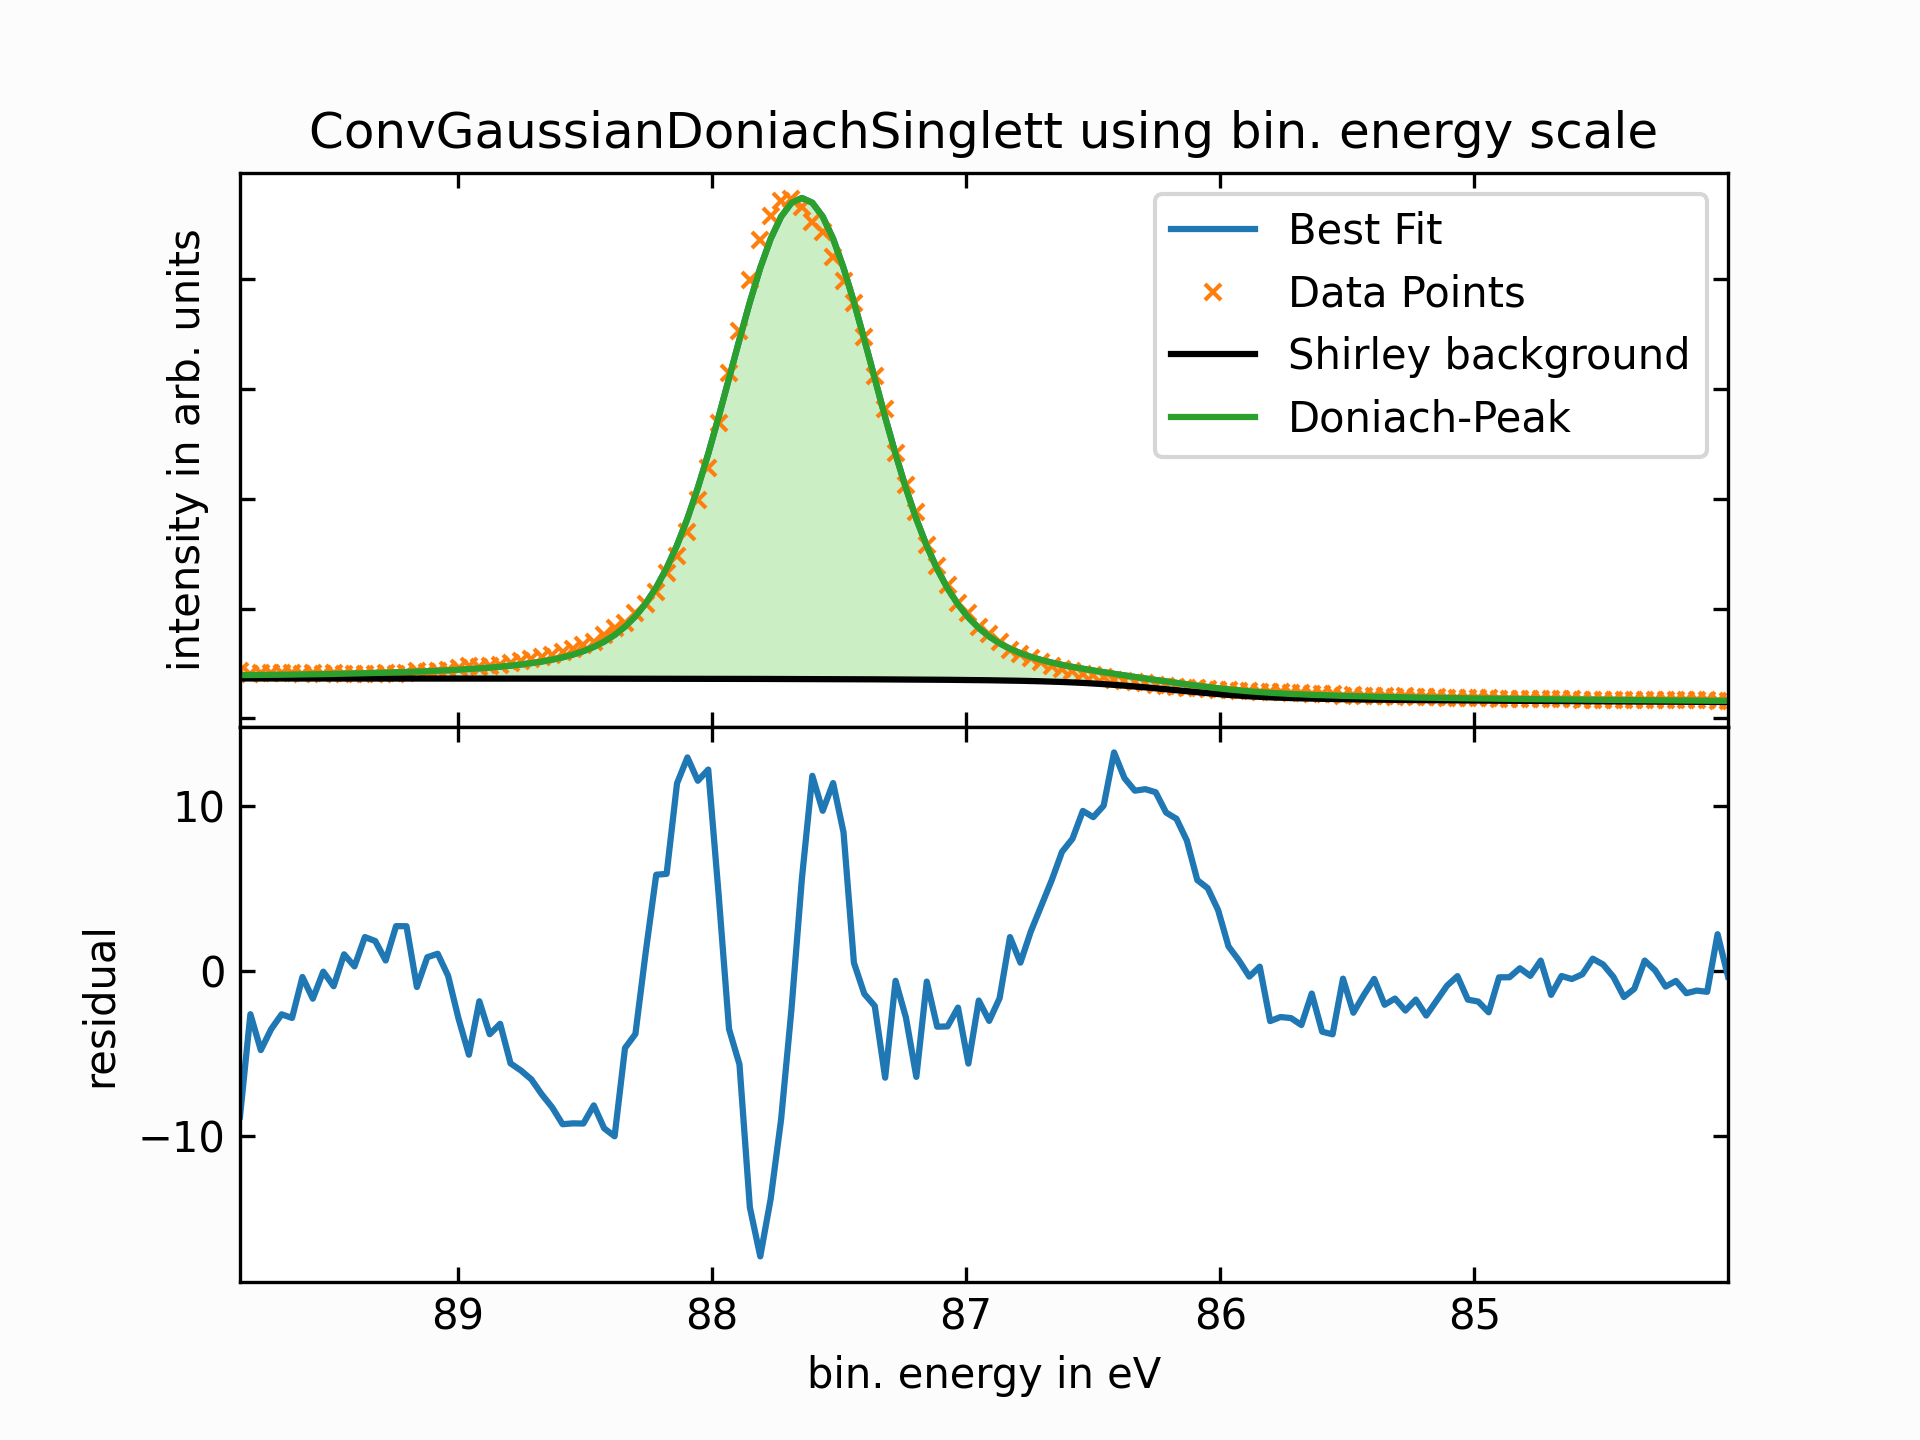
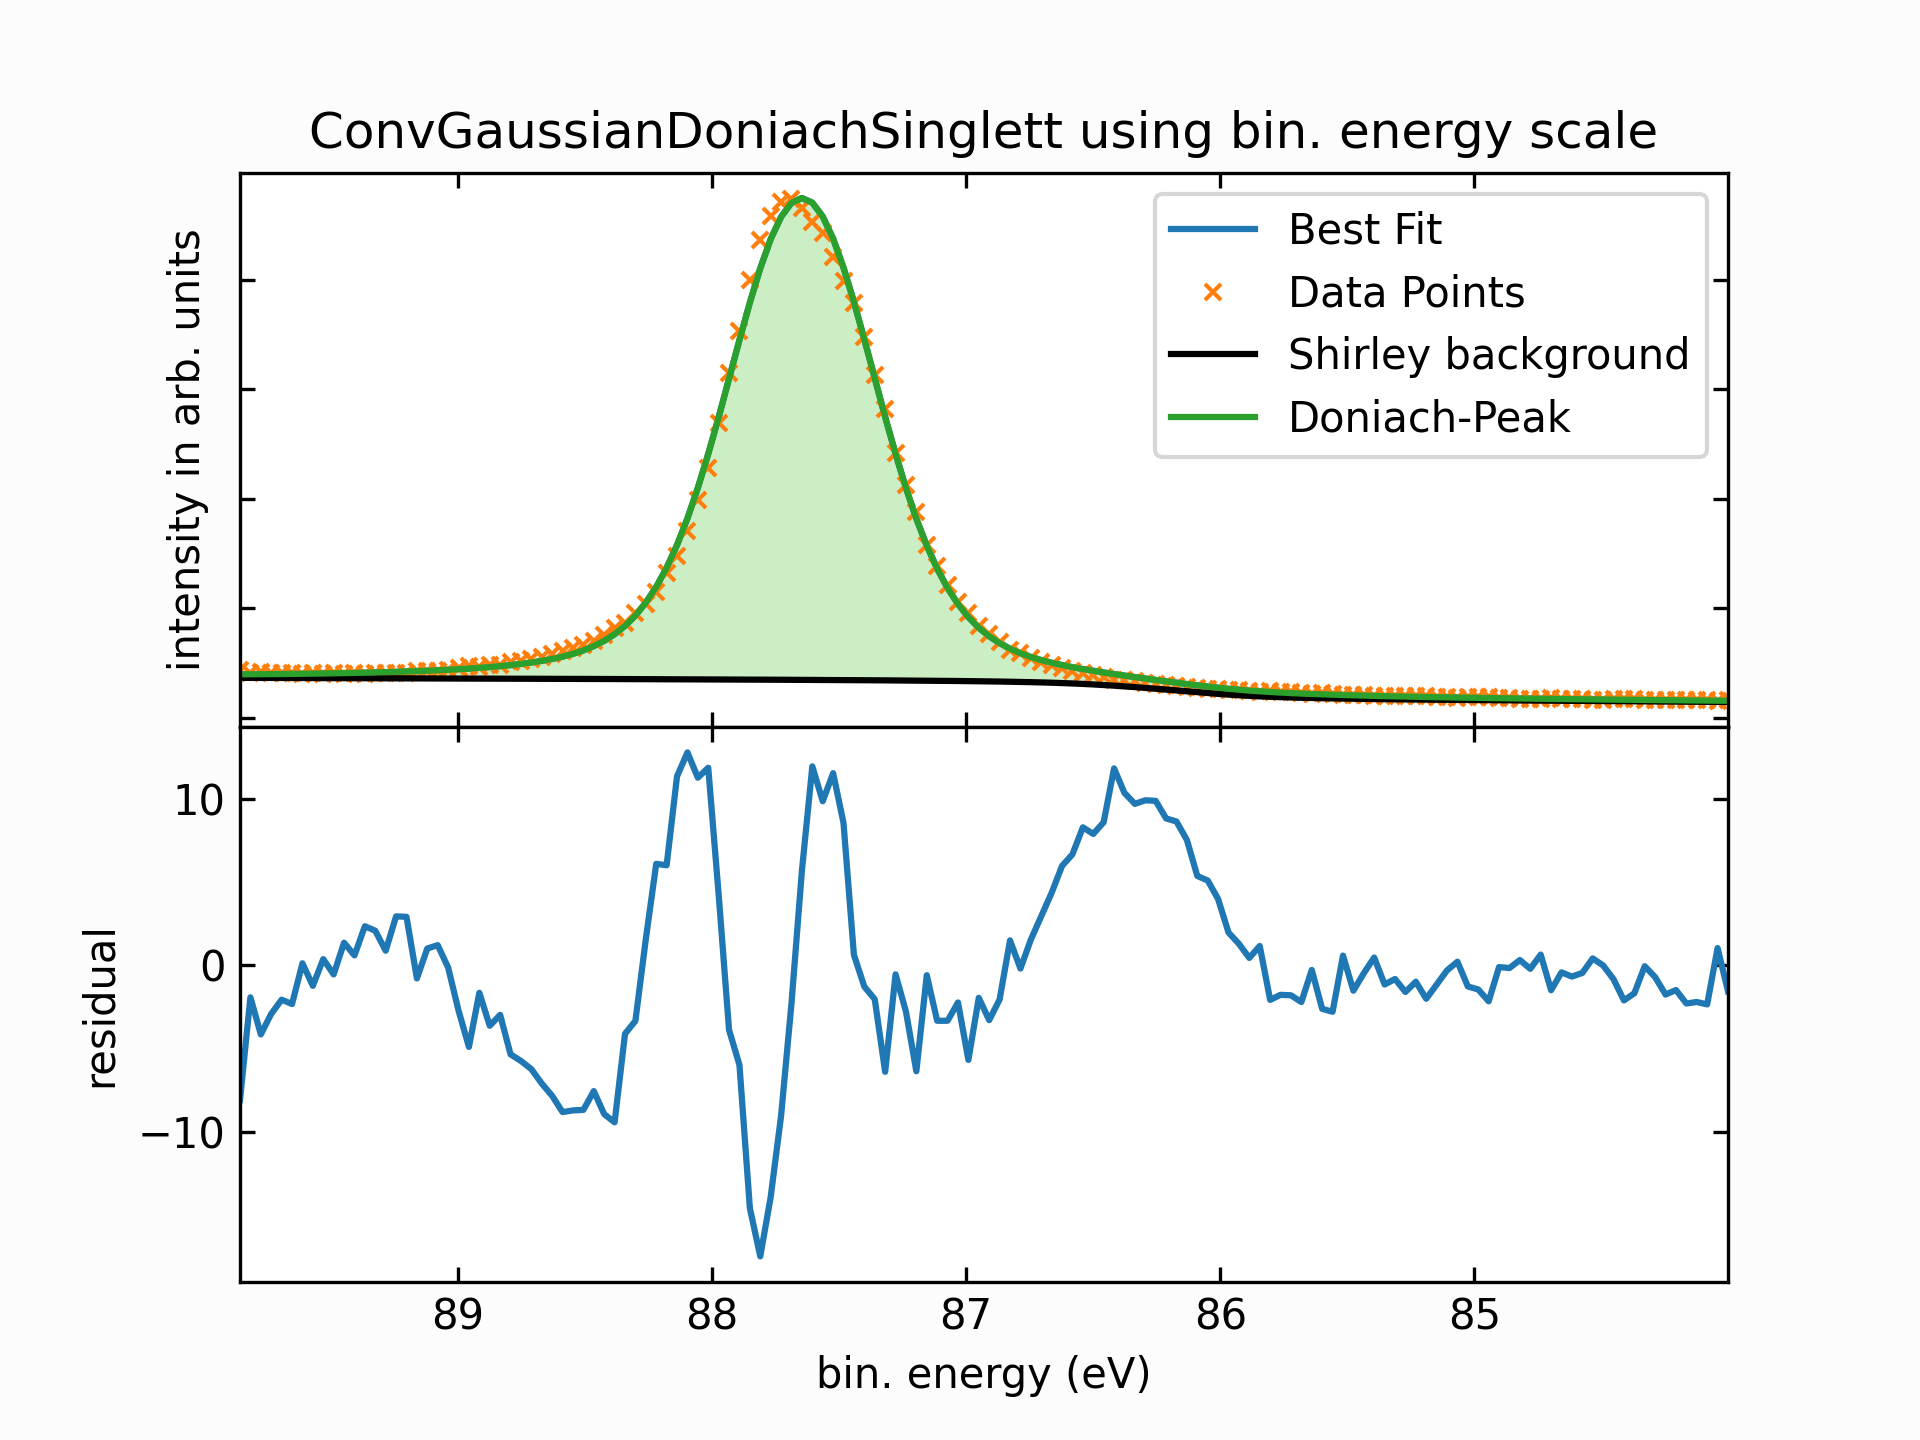
modified fft_convolve to handle the use binding energy there instead of modifying each model function.

diff --git a/src/lmfitxps/lineshapes.py b/src/lmfitxps/lineshapes.py
@@ -43,21 +43,13 @@ def dublett(x, amplitude, sigma, gamma, gaussian_sigma, center, soc, height_rati
     array-type
         convolution of a doniach dublett and a gaussian profile
     """
-    if x[0] < x[-1]:
-        conv_temp = fft_convolve(
+    is_binding_energy= x[-1] < x[0]
+    conv_temp = fft_convolve(
             doniach(x, amplitude=1, center=center, sigma=sigma, gamma=gamma) + doniach(x, height_ratio, center - soc,
                                                                                        fct_coster_kronig * sigma,
                                                                                        gamma),
             1 / (np.sqrt(2 * np.pi) * gaussian_sigma) * gaussian(x, amplitude=1, center=np.mean(x),
-                                                                 sigma=gaussian_sigma))
-    else:
-        conv_temp = fft_convolve(
-            doniach(x[::-1], amplitude=1, center=center, sigma=sigma, gamma=gamma) + doniach(x[::-1], height_ratio,
-                                                                                             center - soc,
-                                                                                             fct_coster_kronig * sigma,
-                                                                                             gamma),
-            1 / (np.sqrt(2 * np.pi) * gaussian_sigma) * gaussian(x[::-1], amplitude=1, center=np.mean(x),
-                                                                 sigma=gaussian_sigma))
+                                                                 sigma=gaussian_sigma), is_binding_energy=is_binding_energy)
     return amplitude * conv_temp / max(conv_temp)
 
 
@@ -87,14 +79,10 @@ def singlett(x, amplitude, sigma, gamma, gaussian_sigma, center):
     array-type
         convolution of a doniach profile and a gaussian profile
     """
-    if x[0] < x[-1]:
-        conv_temp = fft_convolve(doniach(x, amplitude=1, center=center, sigma=sigma, gamma=gamma),
+    is_binding_energy= x[-1] < x[0]
+    conv_temp = fft_convolve(doniach(x, amplitude=1, center=center, sigma=sigma, gamma=gamma),
                                  1 / (np.sqrt(2 * np.pi) * gaussian_sigma) * gaussian(x, amplitude=1, center=np.mean(x),
-                                                                                      sigma=gaussian_sigma))
-    else:
-        conv_temp = fft_convolve(doniach(x[::-1], amplitude=1, center=center, sigma=sigma, gamma=gamma),
-                                 1 / (np.sqrt(2 * np.pi) * gaussian_sigma) * gaussian(x[::-1], amplitude=1, center=np.mean(x),
-                                                                                      sigma=gaussian_sigma))
+                                                                                      sigma=gaussian_sigma), is_binding_energy=is_binding_energy)
     return amplitude * conv_temp / max(conv_temp)
 
 
@@ -128,14 +116,13 @@ def fermi_edge(x, amplitude, center, kt, sigma):
     array-type
         convolution of a fermi dirac distribution and a gaussian profile
     """
-    if x[0] < x[-1]:
-        conv_temp = fft_convolve(thermal_distribution(x, amplitude=1, center=center, kt=kt, form='fermi'),
+    is_binding_energy= x[-1] < x[0]
+
+    if is_binding_energy:
+        kt=-kt
+    conv_temp = fft_convolve(thermal_distribution(x, amplitude=1, center=center, kt=kt, form='fermi'),
                                  1 / (np.sqrt(2 * np.pi) * sigma) * gaussian(x, amplitude=1, center=np.mean(x),
-                                                                             sigma=sigma))
-    else:
-        conv_temp = fft_convolve(thermal_distribution(x, amplitude=1, center=center, kt=-kt, form='fermi'),
-                                 1 / (np.sqrt(2 * np.pi) * sigma) * gaussian(x, amplitude=1, center=np.mean(x),
-                                                                             sigma=sigma))
+                                                                             sigma=sigma), is_binding_energy=is_binding_energy)
     return amplitude * conv_temp / max(conv_temp)
 
 
@@ -170,7 +157,7 @@ def convolve(data, kernel):
     return (out[n_start_data:])[:min_num_pts]
 
 
-def fft_convolve(data, kernel):
+def fft_convolve(data, kernel, is_binding_energy=False):
     """
     Calculates the convolution of a data array with a kernel by using the convolution theorem and thereby
     transforming the time-consuming convolution operation into a multiplication of FFTs.
@@ -185,6 +172,8 @@ def fft_convolve(data, kernel):
         1D-array containing the data to convolve
     kernel: array-like
         1D-array which defines the kernel used for convolution
+    is_binding_energy: boolean
+        Boolean determining type of energy scale which determines the orientation of the kernel
 
     Returns
     ---------
@@ -195,6 +184,8 @@ def fft_convolve(data, kernel):
     ---------
     scipy.signal.convolve()
     """
+    if is_binding_energy:
+        kernel=kernel[::-1]
     min_num_pts = min(len(data), len(kernel))
     padding = np.ones(min_num_pts)
     padded_data = np.concatenate((padding * data[0], data, padding * data[-1]))

diff --git a/examples/Example_ConvGaussianDoniachSinglett.py b/examples/Example_ConvGaussianDoniachSinglett.py
@@ -42,7 +42,7 @@ ax1.plot(x, comps['singlett_'] + comps['shirley_'], color=cmap(4), label="Doniac
 
 ax1.fill_between(x, comps['singlett_'] + comps['shirley_'], comps['shirley_'], alpha=0.5,color=cmap(5))
 ax1.legend()
-ax1.set_xlabel('bin. energy in eV')
+ax1.set_xlabel('bin. energy (eV)')
 ax1.set_ylabel('intensity in arb. units')
 # Set ticks only inside
 ax1.tick_params(axis='x', which='both',top=True, direction='in')
@@ -99,7 +99,7 @@ ax21.plot(x, comps['singlett_'] + comps['shirley_'], color=cmap(4), label="Donia
 
 ax21.fill_between(x, comps['singlett_'] + comps['shirley_'], comps['shirley_'], alpha=0.5,color=cmap(5))
 ax21.legend()
-ax21.set_xlabel('bin. energy in eV')
+ax21.set_xlabel('bin. energy (eV)')
 ax21.set_ylabel('intensity in arb. units')
 # Set ticks only inside
 ax21.tick_params(axis='x', which='both',top=True, direction='in')
@@ -114,7 +114,7 @@ ax21.set_xlim(np.min(x), np.max(x))
 # Residual plot
 residual = result.residual
 ax22.plot(x, residual)
-ax22.set_xlabel('bin. energy in eV')
+ax22.set_xlabel('bin. energy (eV)')
 ax22.set_ylabel('residual')
 ax22.set_xlim(np.max(x), np.min(x))
 plot_filename = os.path.join(output_dir, f'plot_singlett_bin.png')
